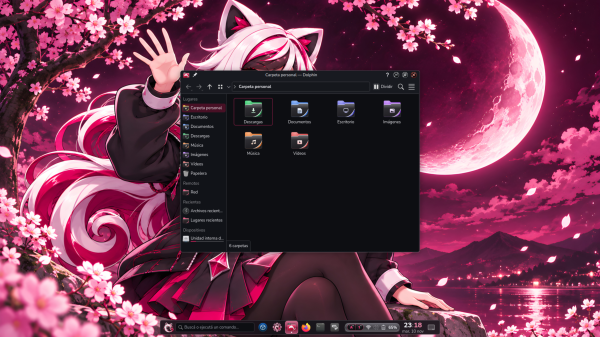
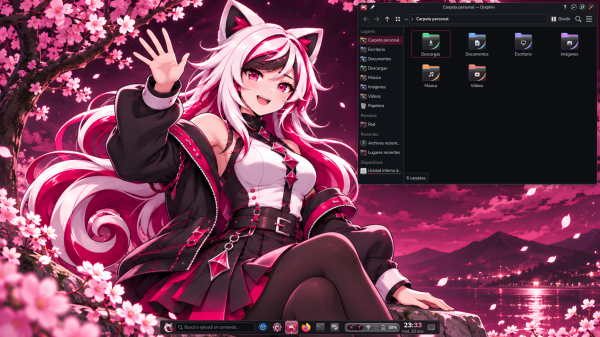
uzunyx-lookandfeel 0.29.0: iconos del escritorio a la derecha
Para usuarios nuevos, los iconos del escritorio van en columnas desde
arriba a la derecha, como en macOS. En las vistas previas, Dolphin pasa
a la esquina de arriba a la derecha para no tapar a Akane y Sora.

diff --git a/uzunyx-lnf/package/contents/layouts/org.kde.plasma.desktop-layout.js b/uzunyx-lnf/package/contents/layouts/org.kde.plasma.desktop-layout.js
@@ -125,6 +125,10 @@ if (controlCenter) {
 var desktopsArray = desktopsForActivity(currentActivity())
 for (var j = 0; j < desktopsArray.length; j++) {
     desktopsArray[j].wallpaperPlugin = 'org.kde.image'
+    // Desktop icons in columns from the top right, as on macOS.
+    desktopsArray[j].currentConfigGroup = ["General"]
+    desktopsArray[j].writeConfig("arrangement", 1)
+    desktopsArray[j].writeConfig("alignment", 1)
 }
 
 // Notifications at the bottom right of the screen, whatever the panel's width.

diff --git a/uzunyx-lnf/README.md b/uzunyx-lnf/README.md
@@ -36,7 +36,9 @@ edición sin ella, el botón conserva su icono.
   antes de la bandeja, y reloj en 24
   horas con fecha corta personalizada (`ddd, d 'de' MMM`). Al final, un botón
   «Salir…» (`lock_logout`) que abre la pantalla de apagar/reiniciar/cerrar
-  sesión. Se usa en el
+  sesión. En el escritorio, los iconos van en columnas desde arriba a la
+  derecha, como en macOS (`arrangement=1`, `alignment=1` en `[General]`;
+  desde 0.29.0). Se usa en el
   primer inicio de sesión de un usuario nuevo, o al aplicar el tema marcando
   «Usar la disposición del escritorio del tema» (eso reemplaza los paneles).
 - `uzunyx-lookandfeel-env.sh` → `/etc/xdg/plasma-workspace/env/`: Plasma
